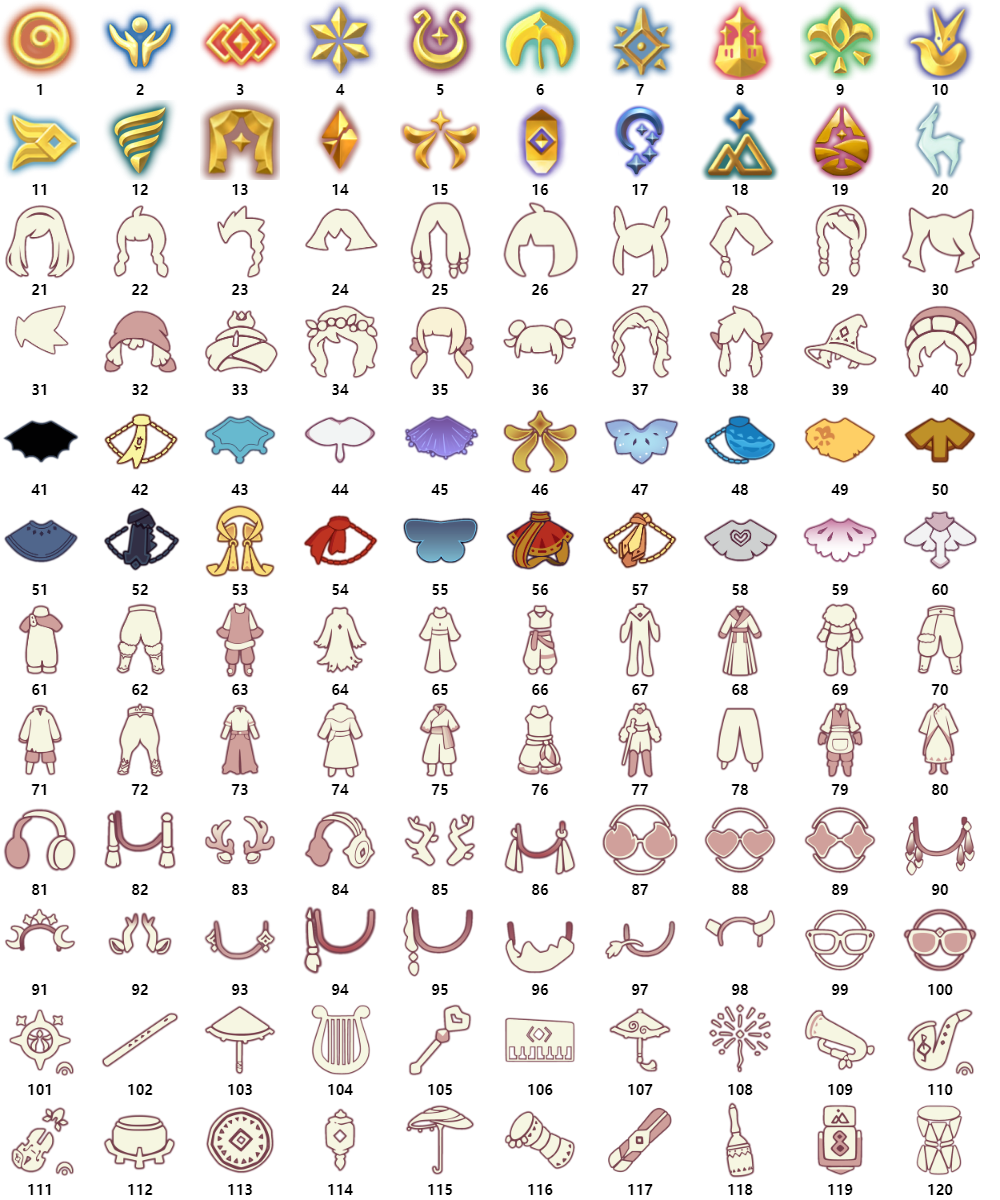
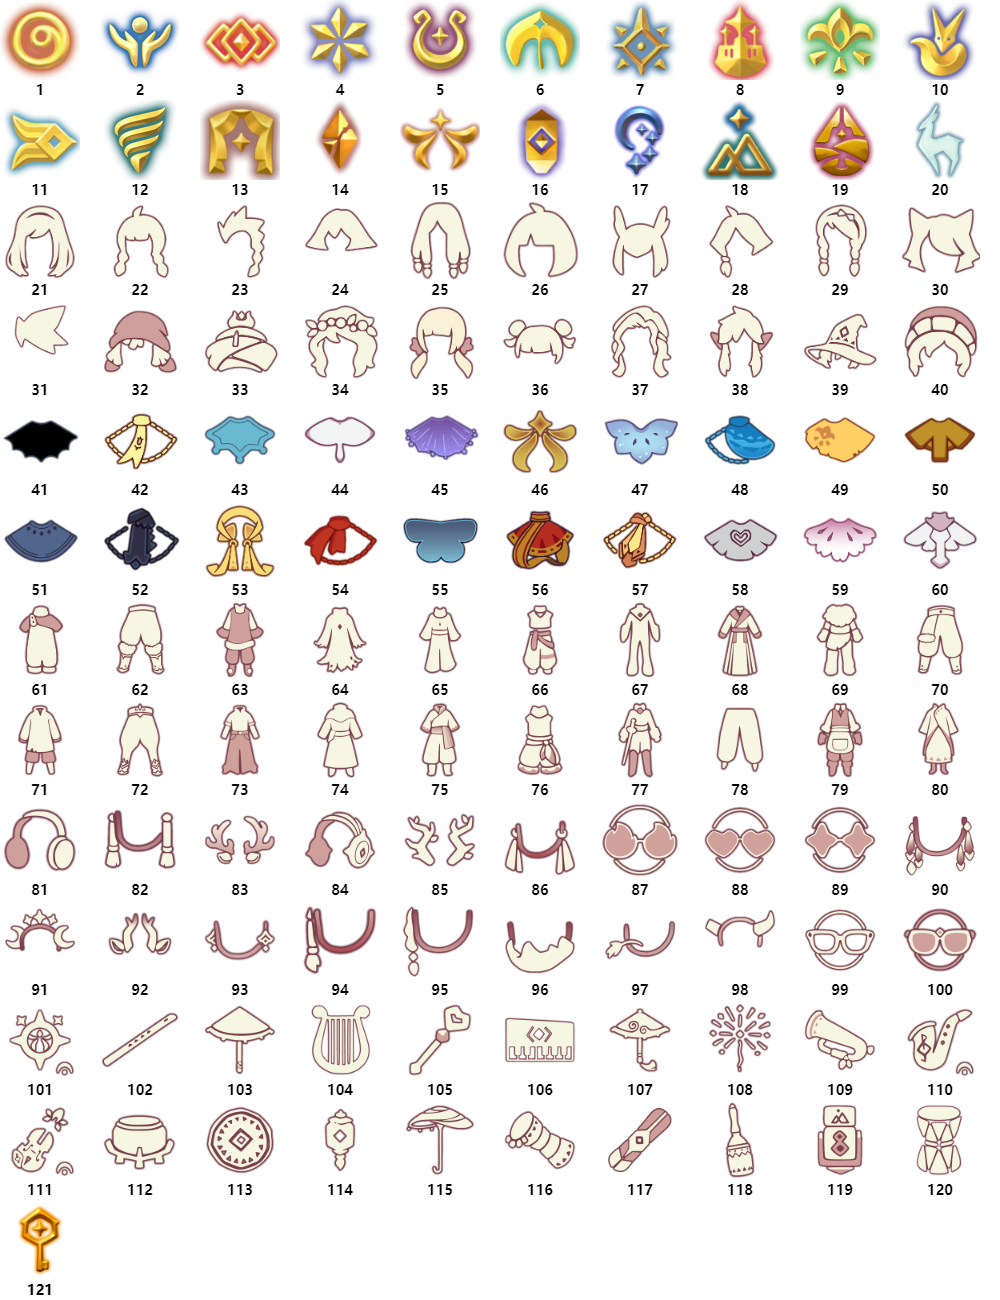
* 2024/04/22 更新内容 | 增加`筑巢季兑换图`指令

diff --git a/apps/「光遇」兑换图.js b/apps/「光遇」兑换图.js
@@ -1,5 +1,5 @@
 const PERMANENT_REGEX = /^(#|\/)?(晨岛|云野|雨林|峡谷|霞谷|暮土|禁阁)兑换图$/
-const SEASON_REGEX = /^(#|\/)?(AURORA|表演|风行|感恩|归巢|归属|九色鹿|梦想|魔法|破晓|潜海|圣岛|拾光|小王子|夜行|音韵|预言|重组|追光|追忆|欧若拉|集结|凌冬)(季)?兑换图$/
+const SEASON_REGEX = /^(#|\/)?(AURORA|表演|风行|感恩|归巢|归属|九色鹿|梦想|魔法|破晓|潜海|圣岛|拾光|小王子|夜行|音韵|预言|重组|追光|追忆|欧若拉|集结|凌冬|筑巢)(季)?兑换图$/
 
 const URL = 'https://gitee.com/Tloml-Starry/resources/raw/master/resources/img/光遇/'
 export class SKY_EXCHANGE_PICTURE extends plugin {

diff --git a/apps/「娱乐」光遇.js b/apps/「娱乐」光遇.js
@@ -1,7 +1,7 @@
 import fs from 'fs';
 import _ from 'lodash';
 import path from 'path';
-import { Version, Common, render, Data } from '../components/index.js';
+import { render } from '../components/index.js';
 
 /** 用户文件位置 */
 const ALL_USER_FILE_PATH = 'plugins/Tlon-Sky/data/USER/';
@@ -218,6 +218,7 @@ export class SKY extends plugin {
             LAST_DATE: USER_DATA['LAST_DATE'],
             ACCUMULATE: USER_DATA['ACCUMULATE'],
             LOCATION: USER_DATA['LOCATION'],
+            SIMULATED_STATE: USER_DATA['SIMULATED_STATE'],
             CURRENCY_1: USER_DATA['CURRENCY_1'],
             CURRENCY_2: USER_DATA['CURRENCY_2']
         }, { e, scale: 2.0 }, '', BUTTON);

diff --git a/config/HELP_3.js b/config/HELP_3.js
@@ -89,6 +89,10 @@ export const helpList = [{
     "icon": 20,
     "title": "九色鹿季兑换图",
     "desc": "20丨24/01/15~24/04/07"
+  }, {
+    "icon": 121,
+    "title": "筑巢季兑换图",
+    "desc": "21丨24/05/25~"
   }]
 }, {
   "group": "版权说明：图片源自网络，如有侵权·联系删除",

diff --git a/resources/html/skyInfo.html b/resources/html/skyInfo.html
@@ -43,7 +43,7 @@
 
         .player-info p {
             margin: 10px 0;
-            color: #666;
+            color: #666666;
         }
     </style>
 </head>

diff --git a/CHANGELOG.md b/CHANGELOG.md
@@ -1,9 +1,10 @@
-<!-- * 2024/04/18 更新内容请使用指令[Sky版本]查看 -->
+<!-- * 2024/04/22 更新内容请使用指令[Sky版本]查看 -->
 # 2.0.0
 * 插件功能更新
   * 增加`光遇版本`查看最近更新内容
 * 光遇功能更新
   * 增加`碎石查询`功能，可查询当日是否有碎石
+  * 增加`筑巢季兑换图`指令
 * 娱乐功能更新
   * 移除`抢蜡烛`，`赌蜡烛`，`排行榜`，`送蜡烛`，`蜡烛商店`
   * 重构`光遇签到`，`光遇信息`
